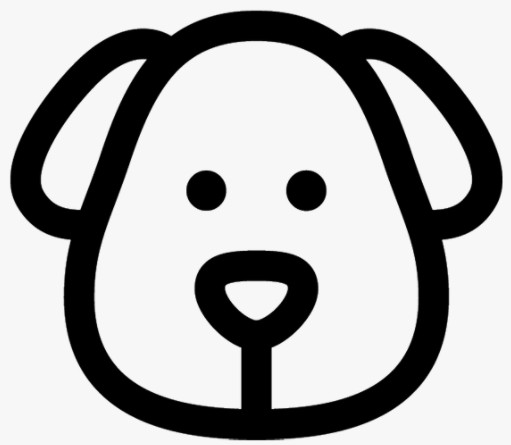
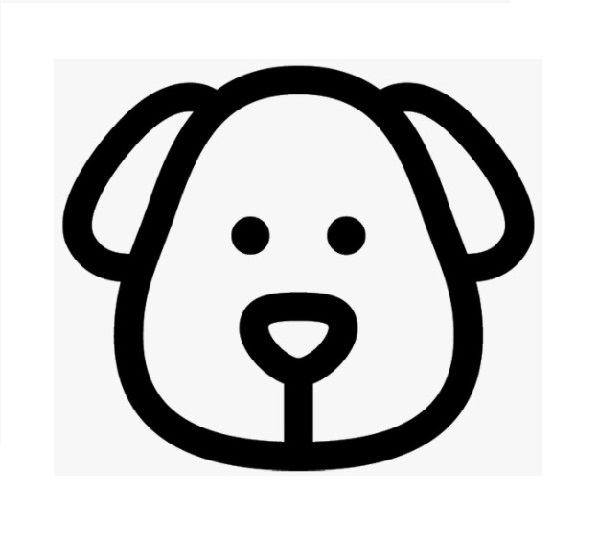
Fixed where user had no dog added, no Dog profile should appear

diff --git a/lib/routes/profile_page.dart b/lib/routes/profile_page.dart
@@ -511,23 +511,27 @@ class _ProfilePageState extends State<ProfilePage> {
 
   Widget dogsInfo() {
     return Container(
-      child: SingleChildScrollView(
-          child: Column(
-            children: [
-              Padding(
-                padding: EdgeInsets.only(top: 1 * SizeConfig.heightMultiplier!),
-                child: Text(
-                  "Dog's Profile",
-                  style: TextStyle(
-                      color: Colors.black54,
-                      fontWeight: FontWeight.bold,
-                      fontSize: 3 * SizeConfig.textMultiplier!),
-                ),
-              ),
-              displayDog(),
-            ],
-          )
-      ),
+        child: DogsList.instance!.dogsList.isEmpty
+            ? SizedBox()
+            : Container(
+          child: SingleChildScrollView(
+
+              child: Column(
+                children: [
+                  Padding(
+                    padding: EdgeInsets.only(top: 1 * SizeConfig.heightMultiplier!),
+                    child: Text(
+                      "Dog's Profile",
+                      style: TextStyle(
+                          color: Colors.black54,
+                          fontWeight: FontWeight.bold,
+                          fontSize: 3 * SizeConfig.textMultiplier!),
+                    ),
+                  ),
+                  displayDog(),
+                ],
+              )
+          ),)
     );
   }
 
@@ -572,7 +576,7 @@ class _ProfilePageState extends State<ProfilePage> {
                                 width: 30 * SizeConfig.heightMultiplier!,
                                 child: ClipRRect(
                                   borderRadius: BorderRadius.circular(10),
-                                  child: Image.asset("lib/assets/Smokey.jpg",
+                                  child: Image.asset("lib/assets/default_dog.jpg",
                                     fit: BoxFit.cover,
                                     errorBuilder: (BuildContext context, Object object,
                                         StackTrace? stacktrace) {
